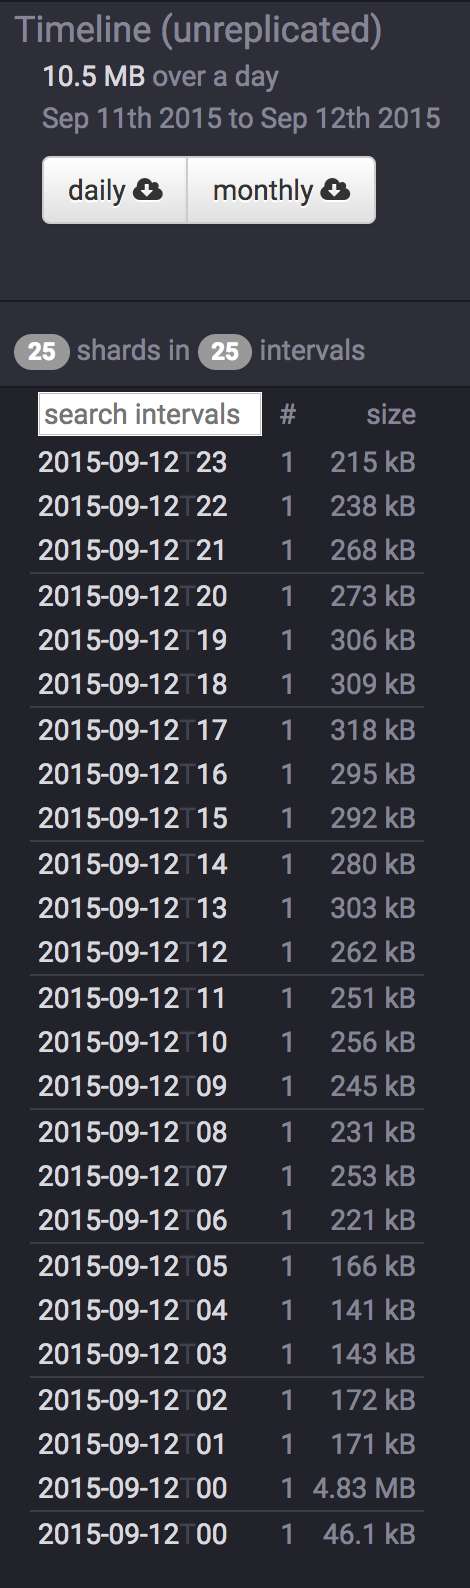
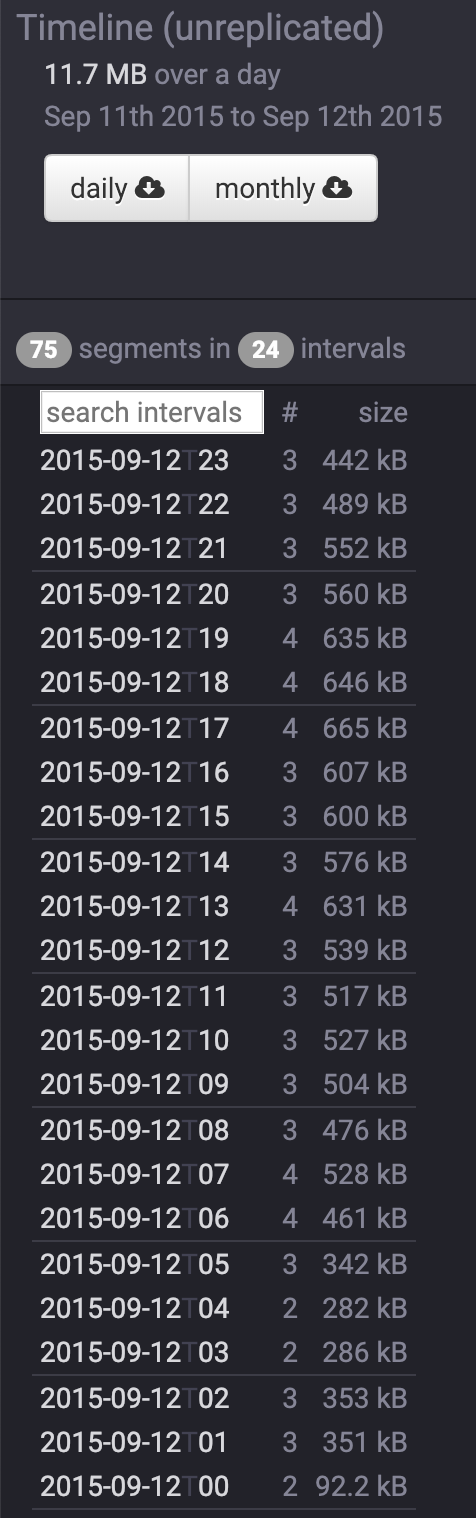
Improve compaction tutorial to demonstrate compaction with keepSegmentGranularity = true (#7079)
* Improve compaction tutorial to demonstrate compaction with keepSegmentGranularity = true

* typo

* add a warning

Changed region(s): [[0.0298, 0.1858, 0.8936, 1.0], [0.0298, 0.0, 0.9532, 0.1548]]

diff --git a/docs/content/tutorials/tutorial-compaction.md b/docs/content/tutorials/tutorial-compaction.md
@@ -27,6 +27,7 @@ title: "Tutorial: Compacting segments"
 This tutorial demonstrates how to compact existing segments into fewer but larger segments.
 
 Because there is some per-segment memory and processing overhead, it can sometimes be beneficial to reduce the total number of segments.
+Please check [Segment size optimization](../operations/segment-optimization.html) for details.
 
 For this tutorial, we'll assume you've already downloaded Druid as described in 
 the [single-machine quickstart](index.html) and have it running on your local machine. 
@@ -35,7 +36,7 @@ It will also be helpful to have finished [Tutorial: Loading a file](../tutorials
 
 ## Load the initial data
 
-For this tutorial, we'll be using the Wikipedia edits sample data, with an ingestion task spec that will create a separate segment for each hour in the input data.
+For this tutorial, we'll be using the Wikipedia edits sample data, with an ingestion task spec that will create 1-3 segments per hour in the input data.
 
 The ingestion spec can be found at `quickstart/tutorial/compaction-init-index.json`. Let's submit that spec, which will create a datasource called `compaction-tutorial`:
 
@@ -43,9 +44,14 @@ The ingestion spec can be found at `quickstart/tutorial/compaction-init-index.js
 bin/post-index-task --file quickstart/tutorial/compaction-init-index.json 
 ```
 
+<div class="note caution">
+Please note that `maxRowsPerSegment` in the ingestion spec is set to 1000. This is to generate multiple segments per hour and _NOT_ recommended in production.
+It's 5000000 by default and may need to be adjusted to make your segments optimized.
+</div>
+
 After the ingestion completes, go to http://localhost:8081/#/datasources/compaction-tutorial in a browser to view information about the new datasource in the Coordinator console.
 
-There will be 24 segments for this datasource, one segment per hour in the input data:
+There will be 51 segments for this datasource, 1-3 segments per hour in the input data:
 
 ![Original segments](../tutorials/img/tutorial-retention-01.png "Original segments")
 
@@ -63,7 +69,7 @@ Retrieved 1 row in 1.38s.
 
 ## Compact the data
 
-Let's now combine these 24 segments into one segment.
+Let's now compact these 51 small segments.
 
 We have included a compaction task spec for this tutorial datasource at `quickstart/tutorial/compaction-final-index.json`:
 
@@ -85,7 +91,7 @@ This will compact all segments for the interval `2015-09-12/2015-09-13` in the `
 
 The parameters in the `tuningConfig` control how many segments will be present in the compacted set of segments. 
 
-In this tutorial example, only one compacted segment will be created, as the 39244 rows in the input is less than the 5000000 `maxRowsPerSegment`.
+In this tutorial example, only one compacted segment will be created per hour, as each hour has less rows than the 5000000 `maxRowsPerSegment` (note that the total number of rows is 39244).
 
 Let's submit this task now:
 
@@ -95,13 +101,13 @@ bin/post-index-task --file quickstart/tutorial/compaction-final-index.json
 
 After the task finishes, refresh the http://localhost:8081/#/datasources/compaction-tutorial page.
 
-The original 24 segments will eventually be marked as "unused" by the Coordinator and removed, with the new compacted segment remaining. 
+The original 51 segments will eventually be marked as "unused" by the Coordinator and removed, with the new compacted segments remaining.
 
 By default, the Druid Coordinator will not mark segments as unused until the Coordinator process has been up for at least 15 minutes, so you may see the old segment set and the new compacted set at the same time in the Coordinator, e.g.:
 
 ![Compacted segments intermediate state](../tutorials/img/tutorial-compaction-01.png "Compacted segments intermediate state")
 
-The new compacted segment has a more recent version than the original segments, so even when both sets of segments are shown by the Coordinator, queries will only read from the new compacted segment.
+The new compacted segments have a more recent version than the original segments, so even when both sets of segments are shown by the Coordinator, queries will only read from the new compacted segments.
 
 Let's try running a COUNT(*) on `compaction-tutorial` again, where the row count should still be 39,244:
 
